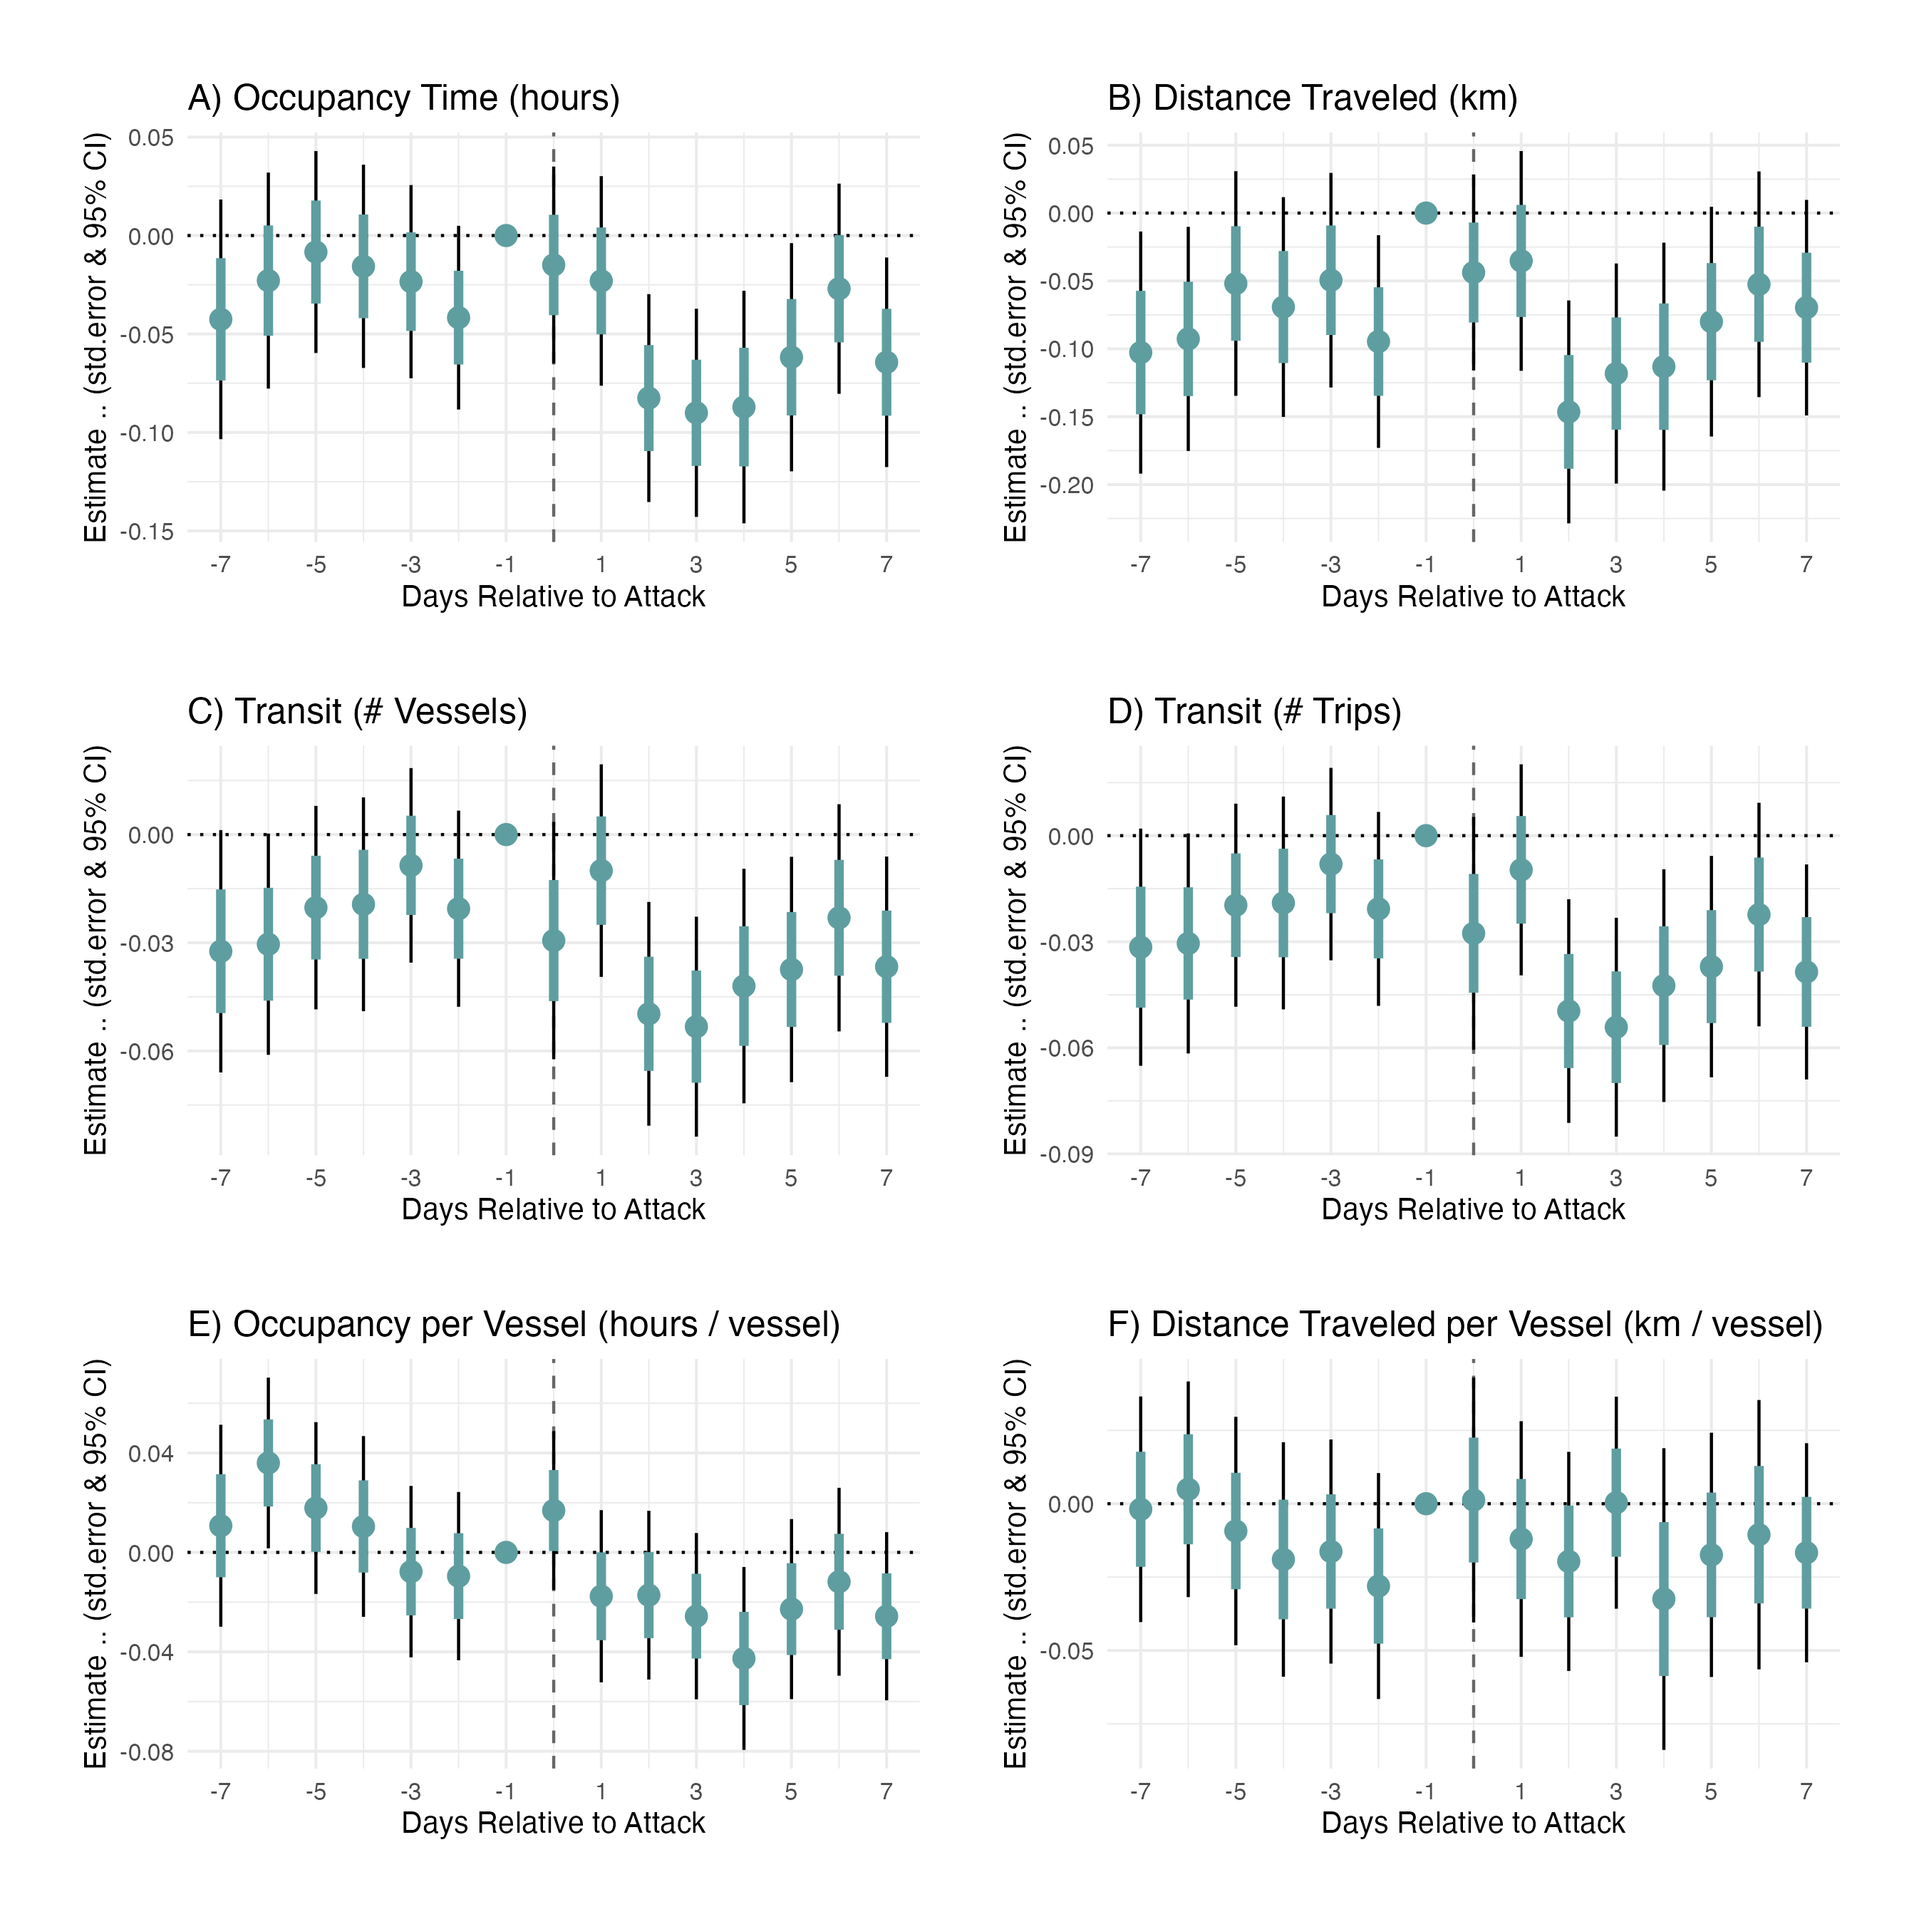
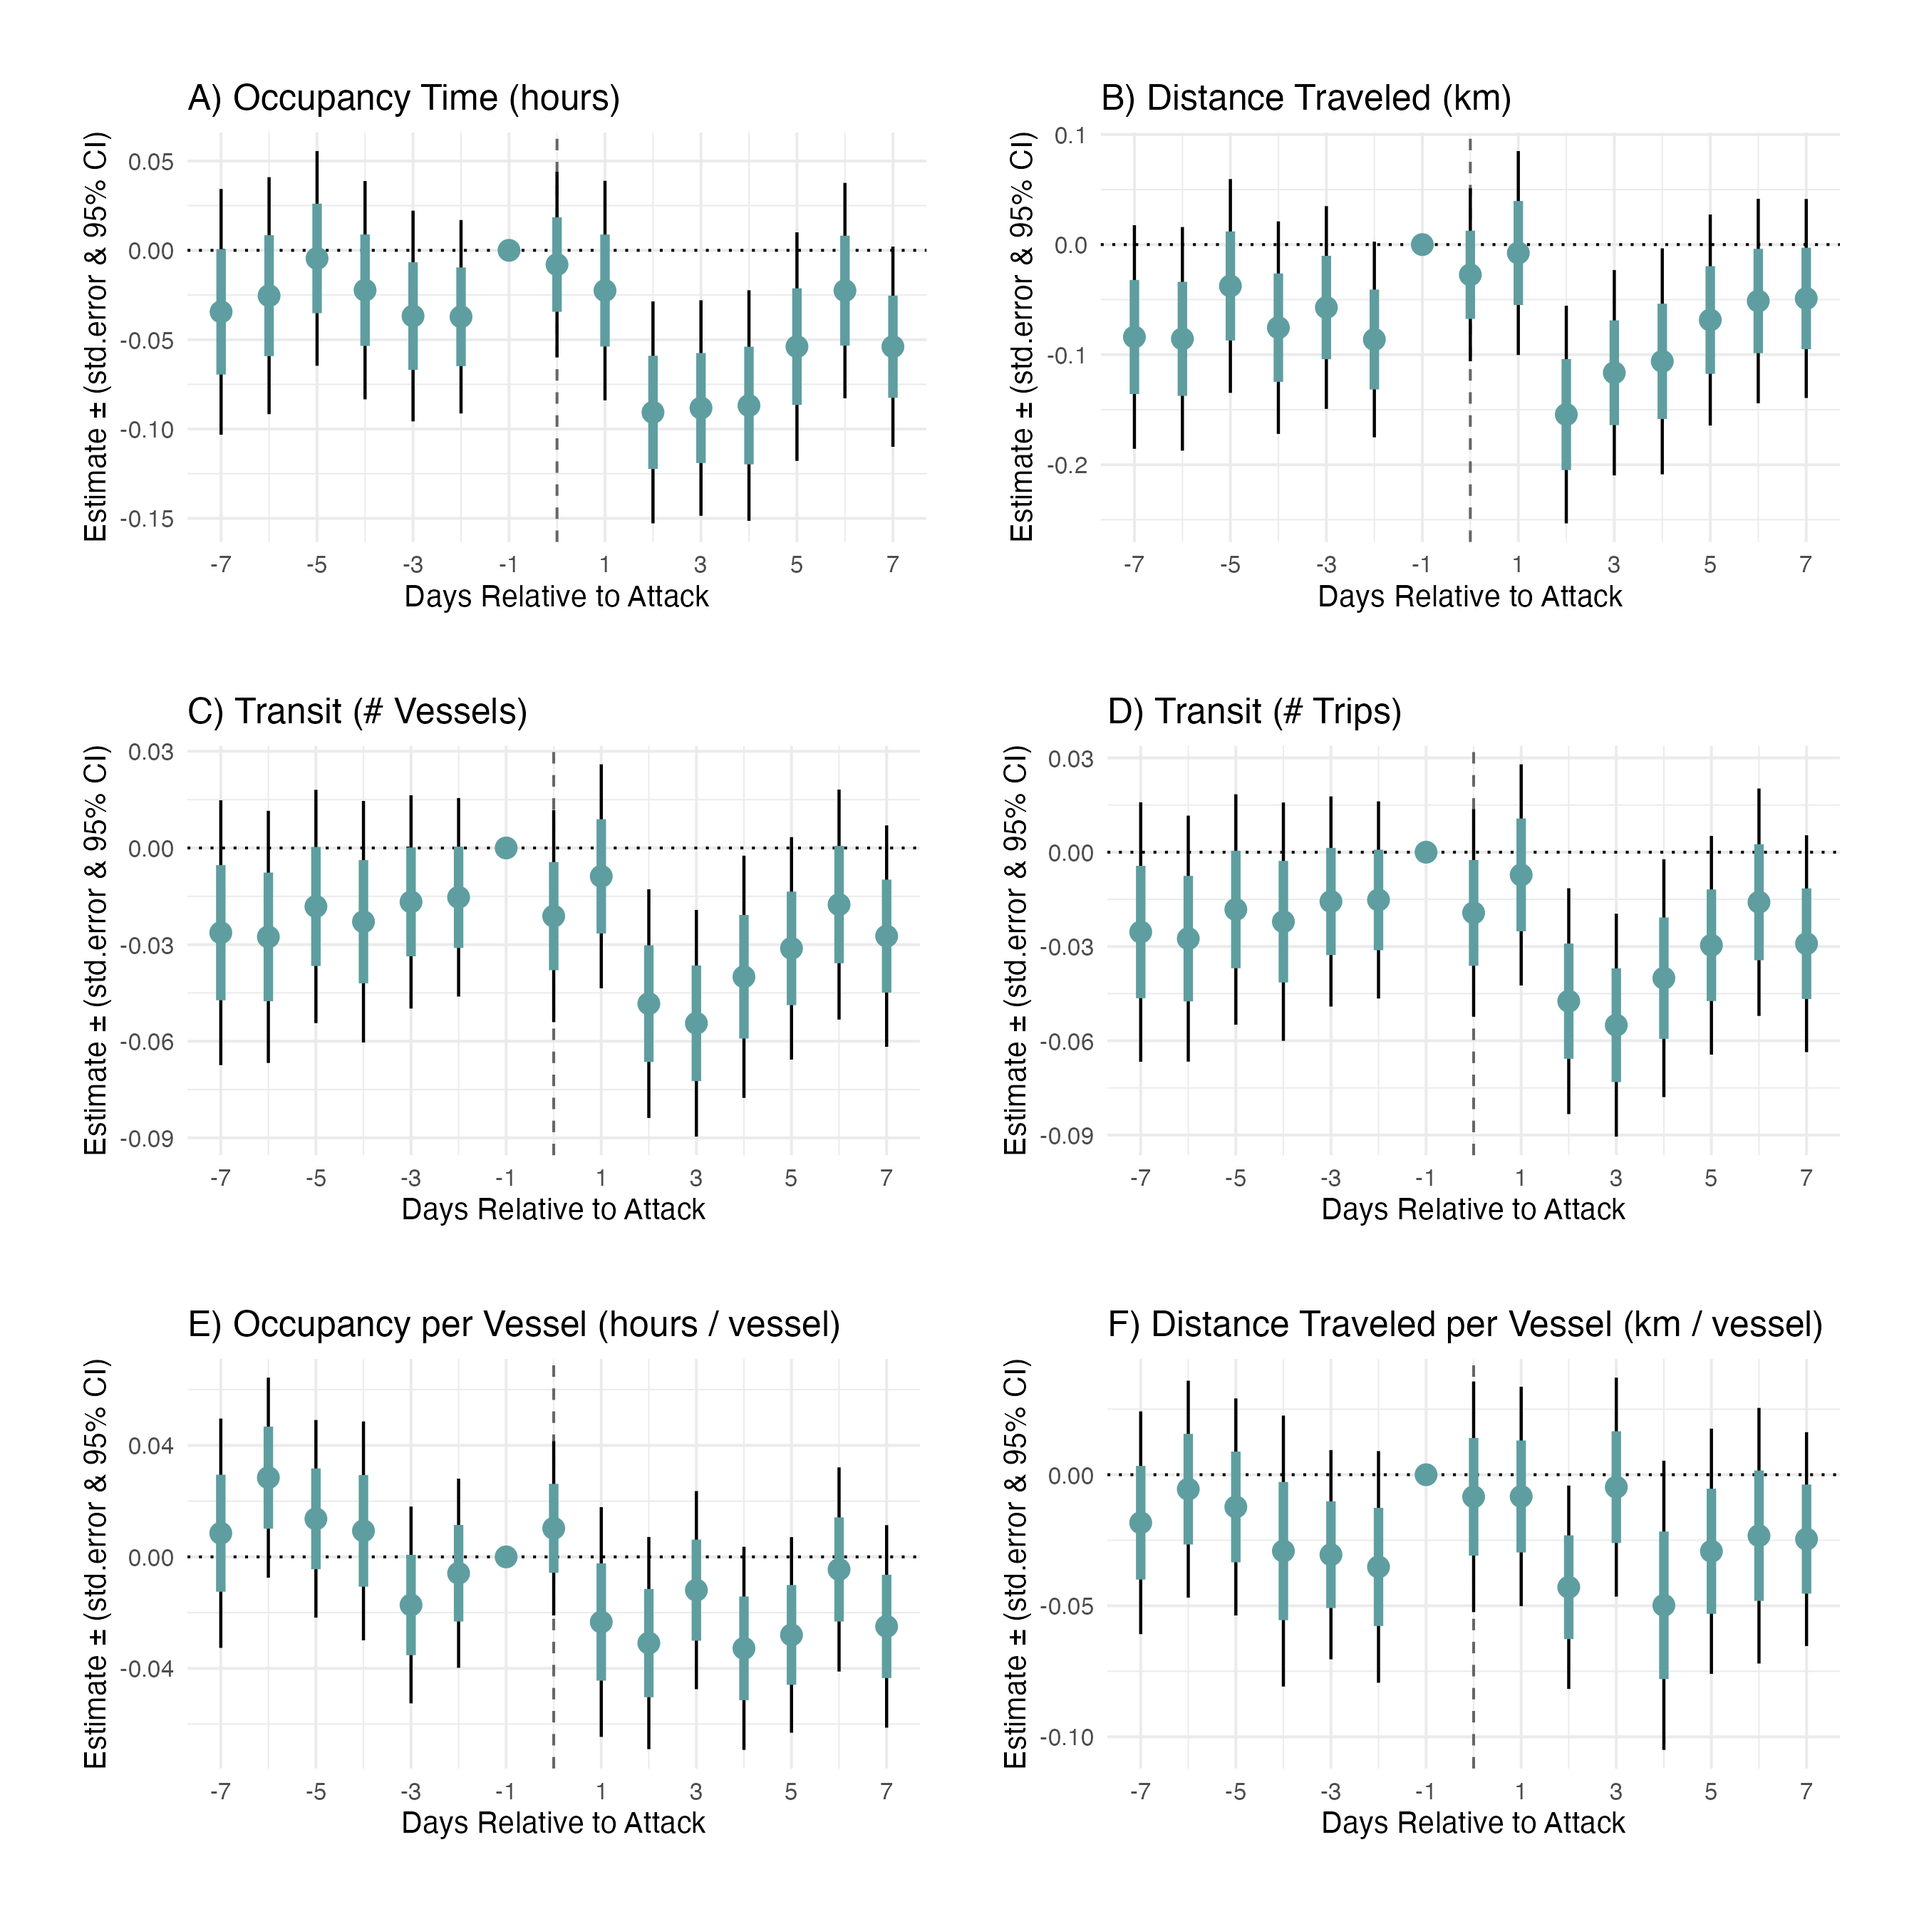
Updating all models after handling FE singletons appropriately

diff --git a/results/figures_and_tables/cell_post_regression.tex b/results/figures_and_tables/cell_post_regression.tex
@@ -9,34 +9,34 @@
 \midrule
 \addlinespace[0.5em]
 \multicolumn{5}{l}{\textit{Panel (A): Occupancy Time (hours)}}\\
-\midrule \hspace{1em}Post-Attack & -0.028** & 0.073** & -0.119*** & 0.007\\
-\hspace{1em} & (0.014) & (0.035) & (0.028) & (0.023)\\
+\midrule \hspace{1em}Post-Attack & -0.023 & 0.084** & -0.123*** & 0.013\\
+\hspace{1em} & (0.016) & (0.038) & (0.032) & (0.025)\\
 \addlinespace[0.5em]
-\hspace{1em}Observations & 32,129 & 3,395 & 9,238 & 12,018 & \\
+\hspace{1em}Observations & 26,841 & 2,756 & 7,511 & 10,466 & \\
 \multicolumn{5}{l}{\textit{Panel (B): Distance Traveled (km)}}\\
-\midrule \hspace{1em}Post-Attack & -0.011 & 0.154** & -0.106*** & 0.018\\
-\hspace{1em} & (0.019) & (0.065) & (0.039) & (0.030)\\
+\midrule \hspace{1em}Post-Attack & -0.004 & 0.161** & -0.114*** & 0.037\\
+\hspace{1em} & (0.020) & (0.069) & (0.041) & (0.033)\\
 \addlinespace[0.5em]
-\hspace{1em}Observations & 32,129 & 3,395 & 9,238 & 12,018 & \\
+\hspace{1em}Observations & 26,841 & 2,756 & 7,511 & 10,466 & \\
 \multicolumn{5}{l}{\textit{Panel (C): Transit (\# Vessels)}}\\
-\midrule \hspace{1em}Post-Attack & -0.015* & 0.025 & -0.073*** & 0.014\\
-\hspace{1em} & (0.009) & (0.022) & (0.015) & (0.015)\\
+\midrule \hspace{1em}Post-Attack & -0.011 & 0.020 & -0.075*** & 0.021\\
+\hspace{1em} & (0.010) & (0.024) & (0.016) & (0.018)\\
 \addlinespace[0.5em]
-\hspace{1em}Observations & 32,129 & 3,395 & 9,238 & 12,018 & \\
+\hspace{1em}Observations & 26,841 & 2,756 & 7,511 & 10,466 & \\
 \multicolumn{5}{l}{\textit{Panel (D): Transit (\# Voyages)}}\\
-\midrule \hspace{1em}Post-Attack & -0.015* & 0.026 & -0.073*** & 0.014\\
-\hspace{1em} & (0.009) & (0.022) & (0.015) & (0.016)\\
+\midrule \hspace{1em}Post-Attack & -0.011 & 0.021 & -0.076*** & 0.021\\
+\hspace{1em} & (0.010) & (0.024) & (0.016) & (0.019)\\
 \addlinespace[0.5em]
-\hspace{1em}Observations & 32,129 & 3,395 & 9,238 & 12,018 & \\
+\hspace{1em}Observations & 26,841 & 2,756 & 7,511 & 10,466 & \\
 \multicolumn{5}{l}{\textit{Panel (E): Occupancy per Vessel (hours / vessel)}}\\
-\midrule \hspace{1em}Post-Attack & -0.021*** & 0.006 & -0.049*** & -0.012\\
-\hspace{1em} & (0.008) & (0.022) & (0.016) & (0.010)\\
+\midrule \hspace{1em}Post-Attack & -0.018** & 0.016 & -0.047** & -0.014\\
+\hspace{1em} & (0.008) & (0.023) & (0.018) & (0.010)\\
 \addlinespace[0.5em]
-\hspace{1em}Observations & 27,975 & 2,505 & 8,081 & 10,954 & \\
+\hspace{1em}Observations & 22,340 & 1,804 & 6,197 & 9,272 & \\
 \multicolumn{5}{l}{\textit{Panel (F): Distance Traveled per Vessel (km / vessel)}}\\
-\midrule \hspace{1em}Post-Attack & -0.000 & -0.012 & 0.029 & -0.005\\
-\hspace{1em} & (0.010) & (0.025) & (0.018) & (0.014)\\
-\hspace{1em}Observations & 27,975 & 2,505 & 8,081 & 10,954 & \\
+\midrule \hspace{1em}Post-Attack & -0.002 & -0.004 & 0.017 & -0.002\\
+\hspace{1em} & (0.011) & (0.023) & (0.013) & (0.016)\\
+\hspace{1em}Observations & 22,340 & 1,804 & 6,197 & 9,272 & \\
 \bottomrule
 \end{tabular}
 \begin{tablenotes}

diff --git a/results/figures_and_tables/AIS_disabling_cell_post_regression.tex b/results/figures_and_tables/AIS_disabling_cell_post_regression.tex
@@ -7,7 +7,7 @@
 \toprule
   & Global & G. of Aden & G. of Guinea\\
 \midrule
-Post-Attack & \num{0.000} & \num{-0.001} & \num{0.002}**\\
+Post-Attack & \num{0.000} & \num{-0.001} & \num{0.002}*\\
  & (\num{0.000}) & (\num{0.001}) & (\num{0.001})\\
 \bottomrule
 \end{tabular}
